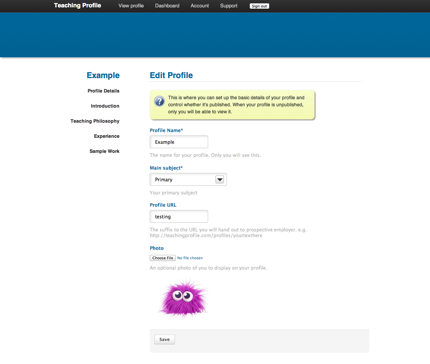
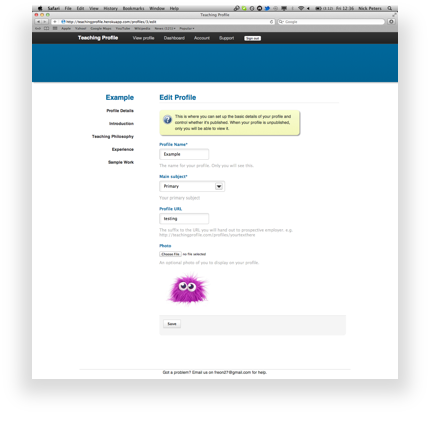
updated marketing images

Changed region(s): [[0.0, 0.0, 1.0, 0.9368]]

diff --git a/app/assets/stylesheets/application.css.scss b/app/assets/stylesheets/application.css.scss
@@ -747,7 +747,7 @@ div#footer {
 
 /* ++++++++++++ footer ++++++++++++ */
 
-div.publication-form, div.marketing-banner {
+div.publication-form, div.marketing-banner{
 	margin: 12px 0;
 	background-color: whiteSmoke;
 	padding: 12px 12px 12px 24px;
@@ -856,6 +856,10 @@ p.location {
 }
 
 img.screenshot {
-	border: 1px solid #ddd;
-	margin-bottom: 32px;
+	margin: auto;
 }
+
+ul.vertical-gallery {
+	padding: 36px 0 !important;
+}
+
